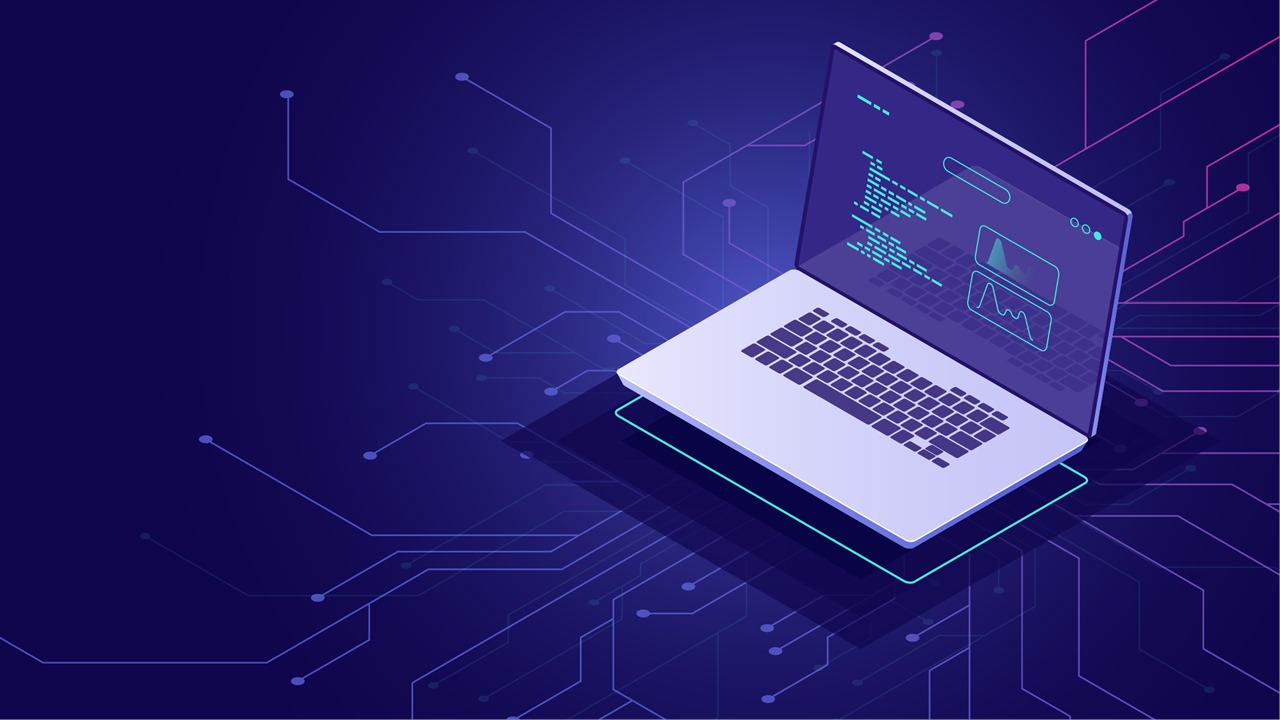
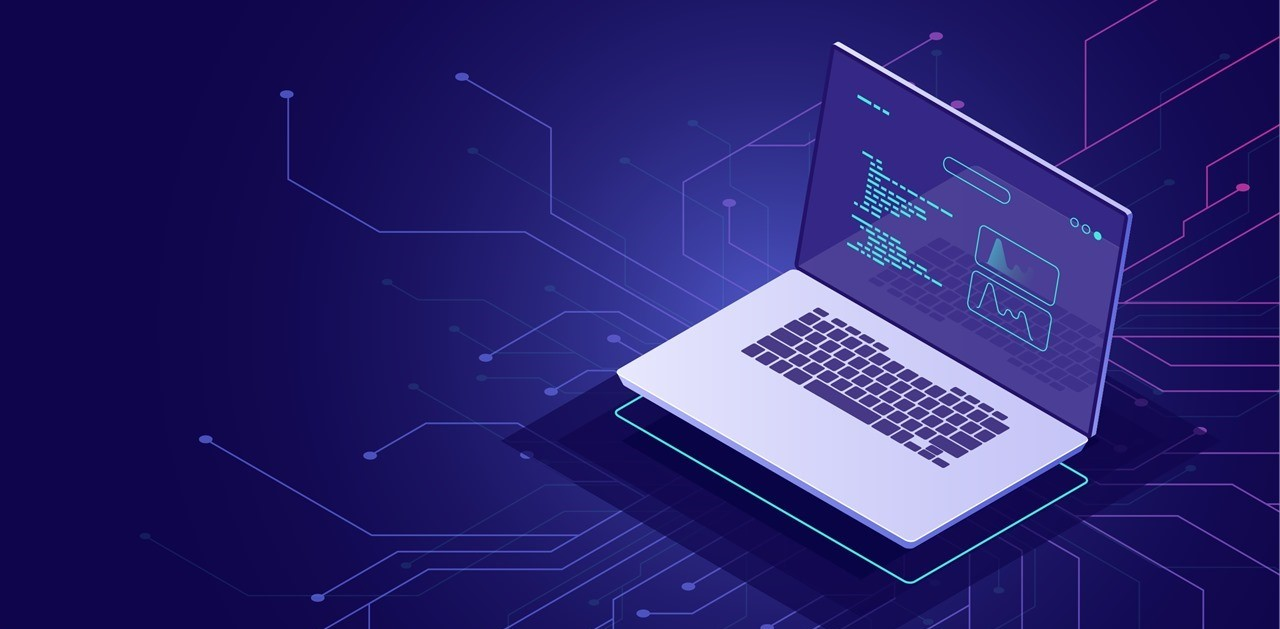
modified:   grouplancer/public/frontpage_image.jpg 	modified:   grouplancer/src/App.css 	modified:   grouplancer/src/Components/Home.jsx

diff --git a/grouplancer/src/Components/Home.jsx b/grouplancer/src/Components/Home.jsx
@@ -7,7 +7,7 @@ const Home = (props) => {
   return (
     <div style={{ backgroundColor: bgcolor }}>
       <div id="frontimage">
-        <p style={{width: "400px", color: "white", fontSize: "35px", marginLeft: "100px", paddingTop: "200px", marginBottom: "-180px", fontWeight: "bold"}}>Hello, this is a freelancing website</p>
+        <p style={{width: "400px", color: "white", fontSize: "35px", marginLeft: "100px", paddingTop: "150px", marginBottom: "-180px", fontWeight: "bold"}}>Hello, this is a freelancing website</p>
         <p style={{ color: "white", width: "400px", marginLeft: "100px", paddingTop: "200px", textAlign: "justify" }}>Lorem, ipsum dolor sit amet consectetur adipisicing elit. Quaerat autem accusamus doloribus beatae accusantium. Ea molestias doloremque aspernatur numquam explicabo ipsa excepturi accusantium. Sapiente fuga doloremque sit totam architecto incidunt!</p>
         <button type='submit' id='community'>Join the community</button>
       </div>

diff --git a/grouplancer/src/App.css b/grouplancer/src/App.css
@@ -18,7 +18,7 @@ body {
   background-repeat: no-repeat;
   background-size: contain;
   margin-top: 10px;
-  margin-bottom: -120px;
+  margin-bottom: -220px;
 }
 
 #community {
